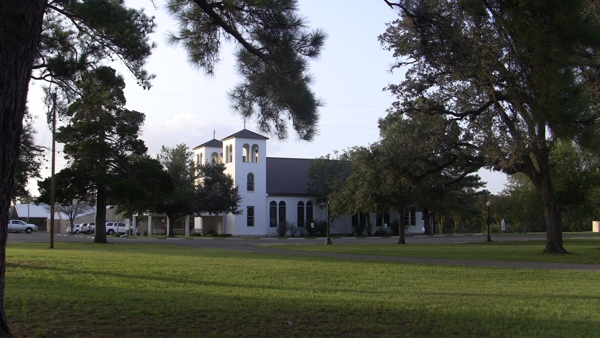
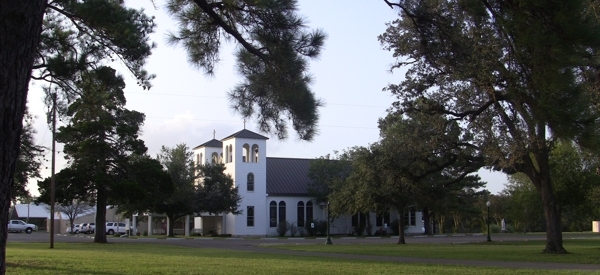
played with pics to make it print on one page

diff --git a/public/css/styles.css b/public/css/styles.css
@@ -93,7 +93,7 @@ body #content header {
   border-radius: 5px;
   width: auto;
   clear: both;
-  padding: 10px;
+  padding: 5px;
   overflow: hidden;
   margin-bottom: 10px;
   text-align: center;
@@ -101,25 +101,26 @@ body #content header {
 /* line 32, ../sass/styles.scss */
 body #content header h1 {
   width: auto;
+  margin: 0;
 }
-/* line 37, ../sass/styles.scss */
+/* line 38, ../sass/styles.scss */
 body #content #left-column {
   float: left;
   clear: left;
   width: 35%;
 }
-/* line 42, ../sass/styles.scss */
+/* line 43, ../sass/styles.scss */
 body #content #left-column div {
   height: 330px;
 }
-/* line 48, ../sass/styles.scss */
+/* line 49, ../sass/styles.scss */
 body #content #left-column #directions-list li {
   margin: 5px;
   list-style: square;
   margin-left: 20px;
   line-height: 1.3em;
 }
-/* line 57, ../sass/styles.scss */
+/* line 58, ../sass/styles.scss */
 body #content #right-column {
   float: right;
   clear: right;
@@ -127,7 +128,7 @@ body #content #right-column {
   width: 60%;
   overflow: hidden;
 }
-/* line 64, ../sass/styles.scss */
+/* line 65, ../sass/styles.scss */
 body #content #right-column .photo-border {
   padding: 4px;
   background: white;
@@ -137,13 +138,13 @@ body #content #right-column .photo-border {
   margin-bottom: 10px;
   float: left;
 }
-/* line 72, ../sass/styles.scss */
+/* line 73, ../sass/styles.scss */
 body #content #right-column img {
   width: 560px;
   display: block;
   margin: 0;
 }
-/* line 79, ../sass/styles.scss */
+/* line 80, ../sass/styles.scss */
 body #content footer {
   clear: both;
   width: 100%;
@@ -151,7 +152,7 @@ body #content footer {
   margin-bottom: 0px;
 }
 
-/* line 88, ../sass/styles.scss */
+/* line 89, ../sass/styles.scss */
 .column {
   margin-bottom: 10px;
   padding: 5px;
@@ -159,21 +160,21 @@ body #content footer {
   @include border-radius(4px);*/
 }
 
-/* line 95, ../sass/styles.scss */
+/* line 96, ../sass/styles.scss */
 h1 {
   font-size: 168%;
   font-weight: bold;
   margin: 10px 0px 10px 0px;
 }
 
-/* line 101, ../sass/styles.scss */
+/* line 102, ../sass/styles.scss */
 h2 {
   font-size: 130%;
   font-weight: bold;
   margin: 8px 0px 8px 0px;
 }
 
-/* line 107, ../sass/styles.scss */
+/* line 108, ../sass/styles.scss */
 p {
   margin: 10px 0;
 }

diff --git a/public/sass/styles.scss b/public/sass/styles.scss
@@ -24,13 +24,14 @@ body {
 			@include border-radius(5px);
 			width: auto;
 			clear: both;
-			padding: 10px;
+			padding: 5px;
 			overflow: hidden;
 			margin-bottom: 10px;
 			text-align: center;
 
 			h1 {
 				width: auto;
+                margin: 0;
 			}
 		}
 
